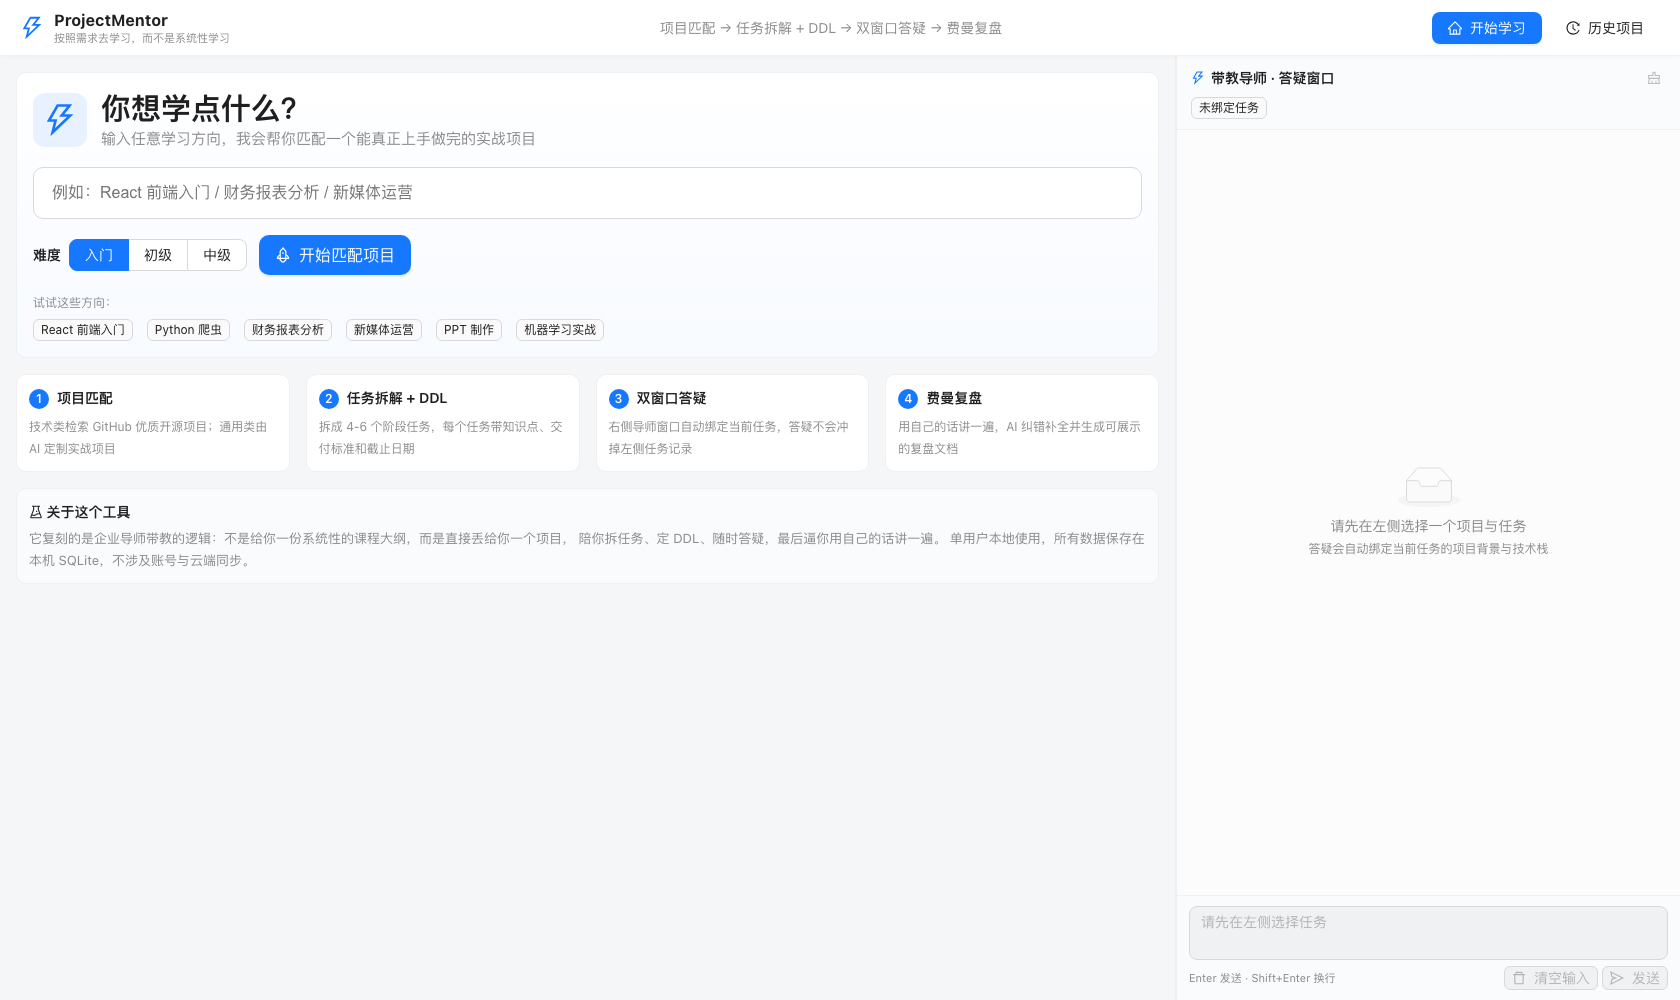
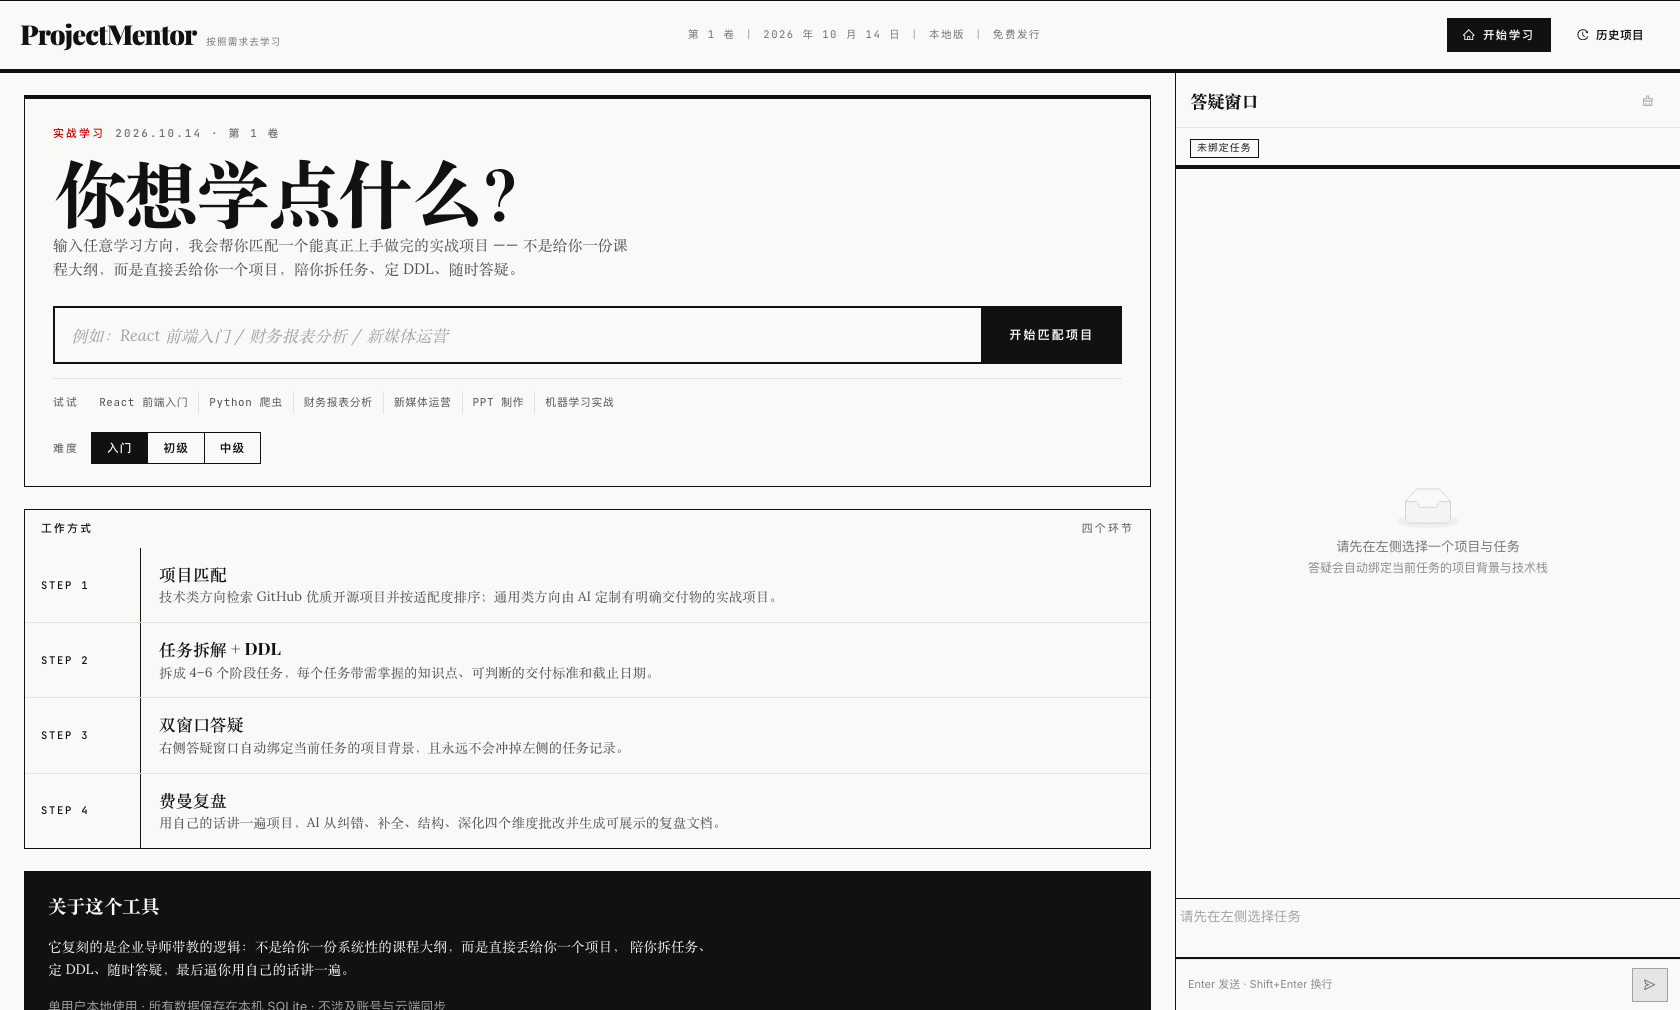
docs: 更新界面截图并补充新闻纸设计风格说明
- 截图全部替换为新闻纸风格，并新增「项目匹配结果」与「README 摘要展开」两张
- README 新增「设计风格：新闻纸」章节，说明核心规则与实现位置，
  并交代为何把 Tailwind 工具类转译为 AntD token + CSS

diff --git a/README.md b/README.md
@@ -15,6 +15,7 @@
 - [解决什么问题](#解决什么问题)
 - [核心功能](#核心功能)
 - [界面截图](#界面截图)
+- [设计风格：新闻纸](#设计风格新闻纸)
 - [技术栈](#技术栈)
 - [快速启动](#快速启动)
 - [开发与测试](#开发与测试)
@@ -110,29 +111,67 @@ AI 判断领域类型（技术开发类 / 通用知识类）
 
 ## 界面截图
 
-### 首页：输入学习方向
+整体采用「新闻纸」设计风格：零圆角、墨黑为唯一强调色、以边框而非阴影划分结构。
+详见 [设计风格](#设计风格新闻纸)。
+
+### 首页：输入学习方向（STEP 1–4 竖排说明）
 
 ![首页](docs/screenshots/01-首页-学习方向输入.png)
 
+### 项目匹配结果：路径 A（GitHub 开源项目）
+
+按适配度排序，卡片只保留决策所需信息，次要内容折叠。
+
+![项目匹配结果](docs/screenshots/02-项目匹配结果.png)
+
 ### 项目总览（含阶段化任务时间线）
 
-![项目总览](docs/screenshots/02-项目总览.png)
+![项目总览](docs/screenshots/03-项目总览.png)
 
-### 任务列表（含交付标准与 DDL）
+### README 摘要：默认折叠，展开后首行回链仓库原文
 
-![任务列表](docs/screenshots/03-任务列表.png)
+![README 展开](docs/screenshots/04-README摘要展开.png)
 
-### 顺序门禁：完成任务后自动解锁下一个
+### 任务列表（含交付标准、DDL 与顺序门禁）
 
-![任务解锁](docs/screenshots/04-任务解锁门禁.png)
+![任务列表](docs/screenshots/05-任务列表.png)
 
 ### 费曼复盘：左侧输出，右侧 AI 批改与最终文档
 
-![费曼复盘](docs/screenshots/05-费曼复盘.png)
+![费曼复盘](docs/screenshots/06-费曼复盘.png)
 
 ### 历史学习项目
 
-![历史项目](docs/screenshots/06-历史项目.png)
+![历史项目](docs/screenshots/07-历史项目.png)
+
+---
+
+## 设计风格：新闻纸
+
+> 「所有适合刊登的新闻。」—— 对印刷新闻黄金时代的致敬。
+
+拒绝现代网页的柔和阴影、模糊背景与圆角，拥抱纯粹的几何、高信息密度与可见的结构。
+
+### 核心规则
+
+| 维度 | 规则 |
+| --- | --- |
+| 圆角 | **处处为 0px**，无例外（唯一例外是加载指示器，方角会显得像故障） |
+| 配色 | 米白 `#F9F9F7` + 墨黑 `#111111`；编辑红 `#CC0000` 极其克制地使用 |
+| 边框 | 1px 墨黑为标准，4px 用于主要区域分隔；相邻元素**共享边框**避免双线 |
+| 阴影 | 扁平。仅交互卡片在悬停时出现硬偏移阴影 `4px 4px 0 0 #111` |
+| 字体 | 标题 Playfair Display · 正文 Lora · UI Inter · 数据 JetBrains Mono |
+| 标签 | 全大写 + `letter-spacing: 0.2em` + 等宽 |
+| 纹理 | body 铺 4×4px 点阵；主要区域叠加 3×3px 细网格 |
+
+### 实现位置
+
+- 颜色、字体、边框、纹理、组件覆写 → [`frontend/src/index.css`](frontend/src/index.css)
+- Ant Design 主题 token（零圆角、墨黑主色）→ [`frontend/src/App.tsx`](frontend/src/App.tsx)
+
+> 说明：设计规范原文以 Tailwind 工具类描述，本项目使用 **Ant Design 5 + 原生 CSS**（PRD 强制），
+> 因此规范中的类名被转译为「CSS 变量 + 工具类 + AntD theme token」三层实现，
+> 而非引入 Tailwind —— 避免与 AntD 的样式重置产生冲突。
 
 ---
 
